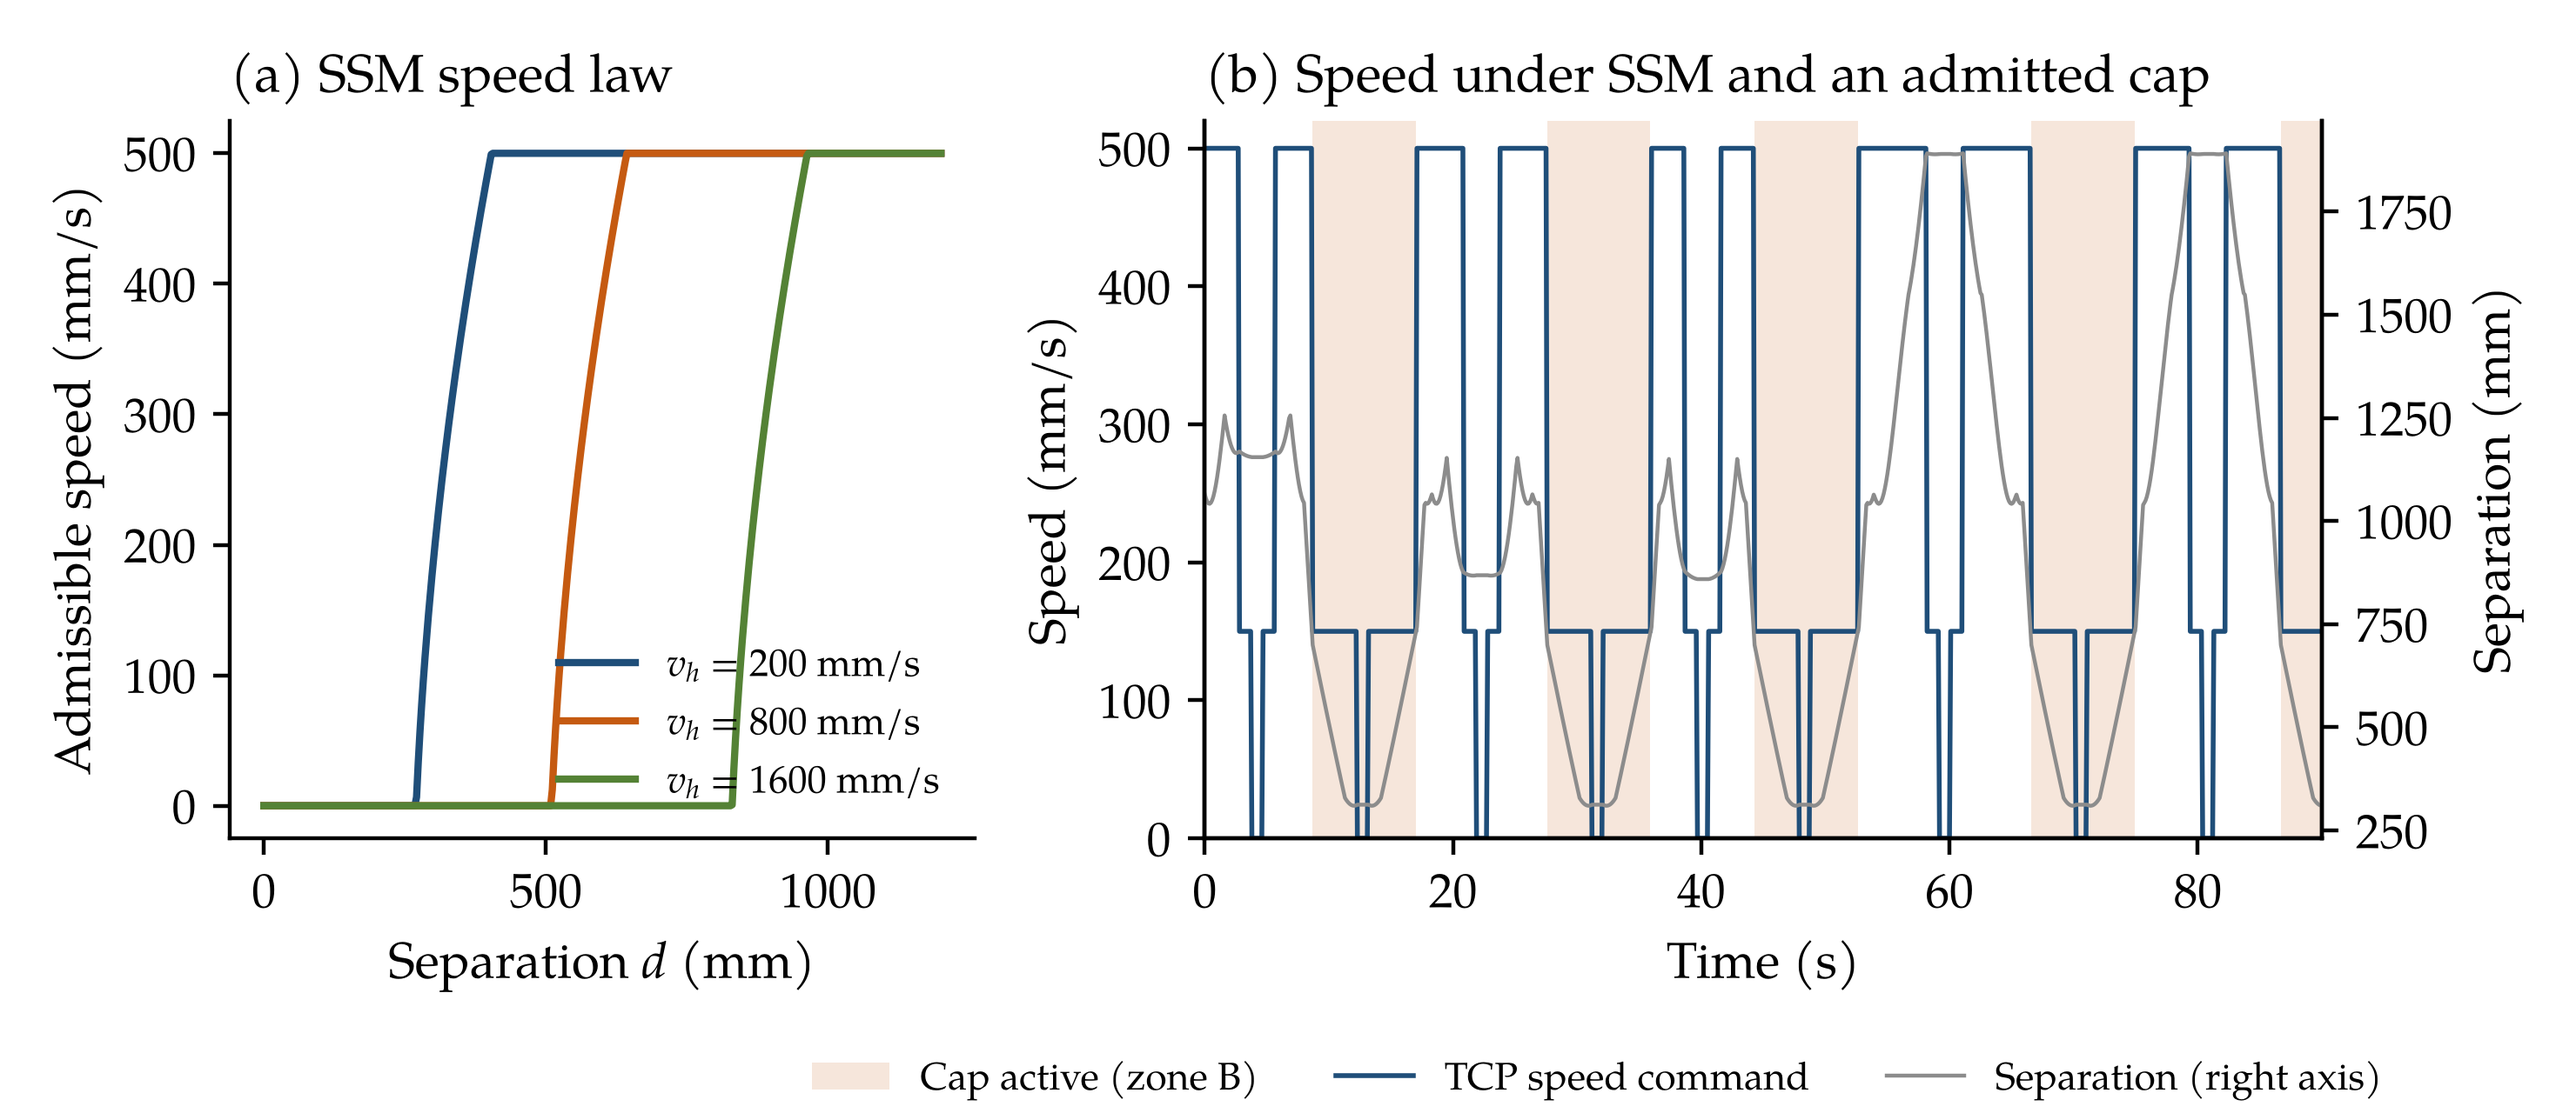
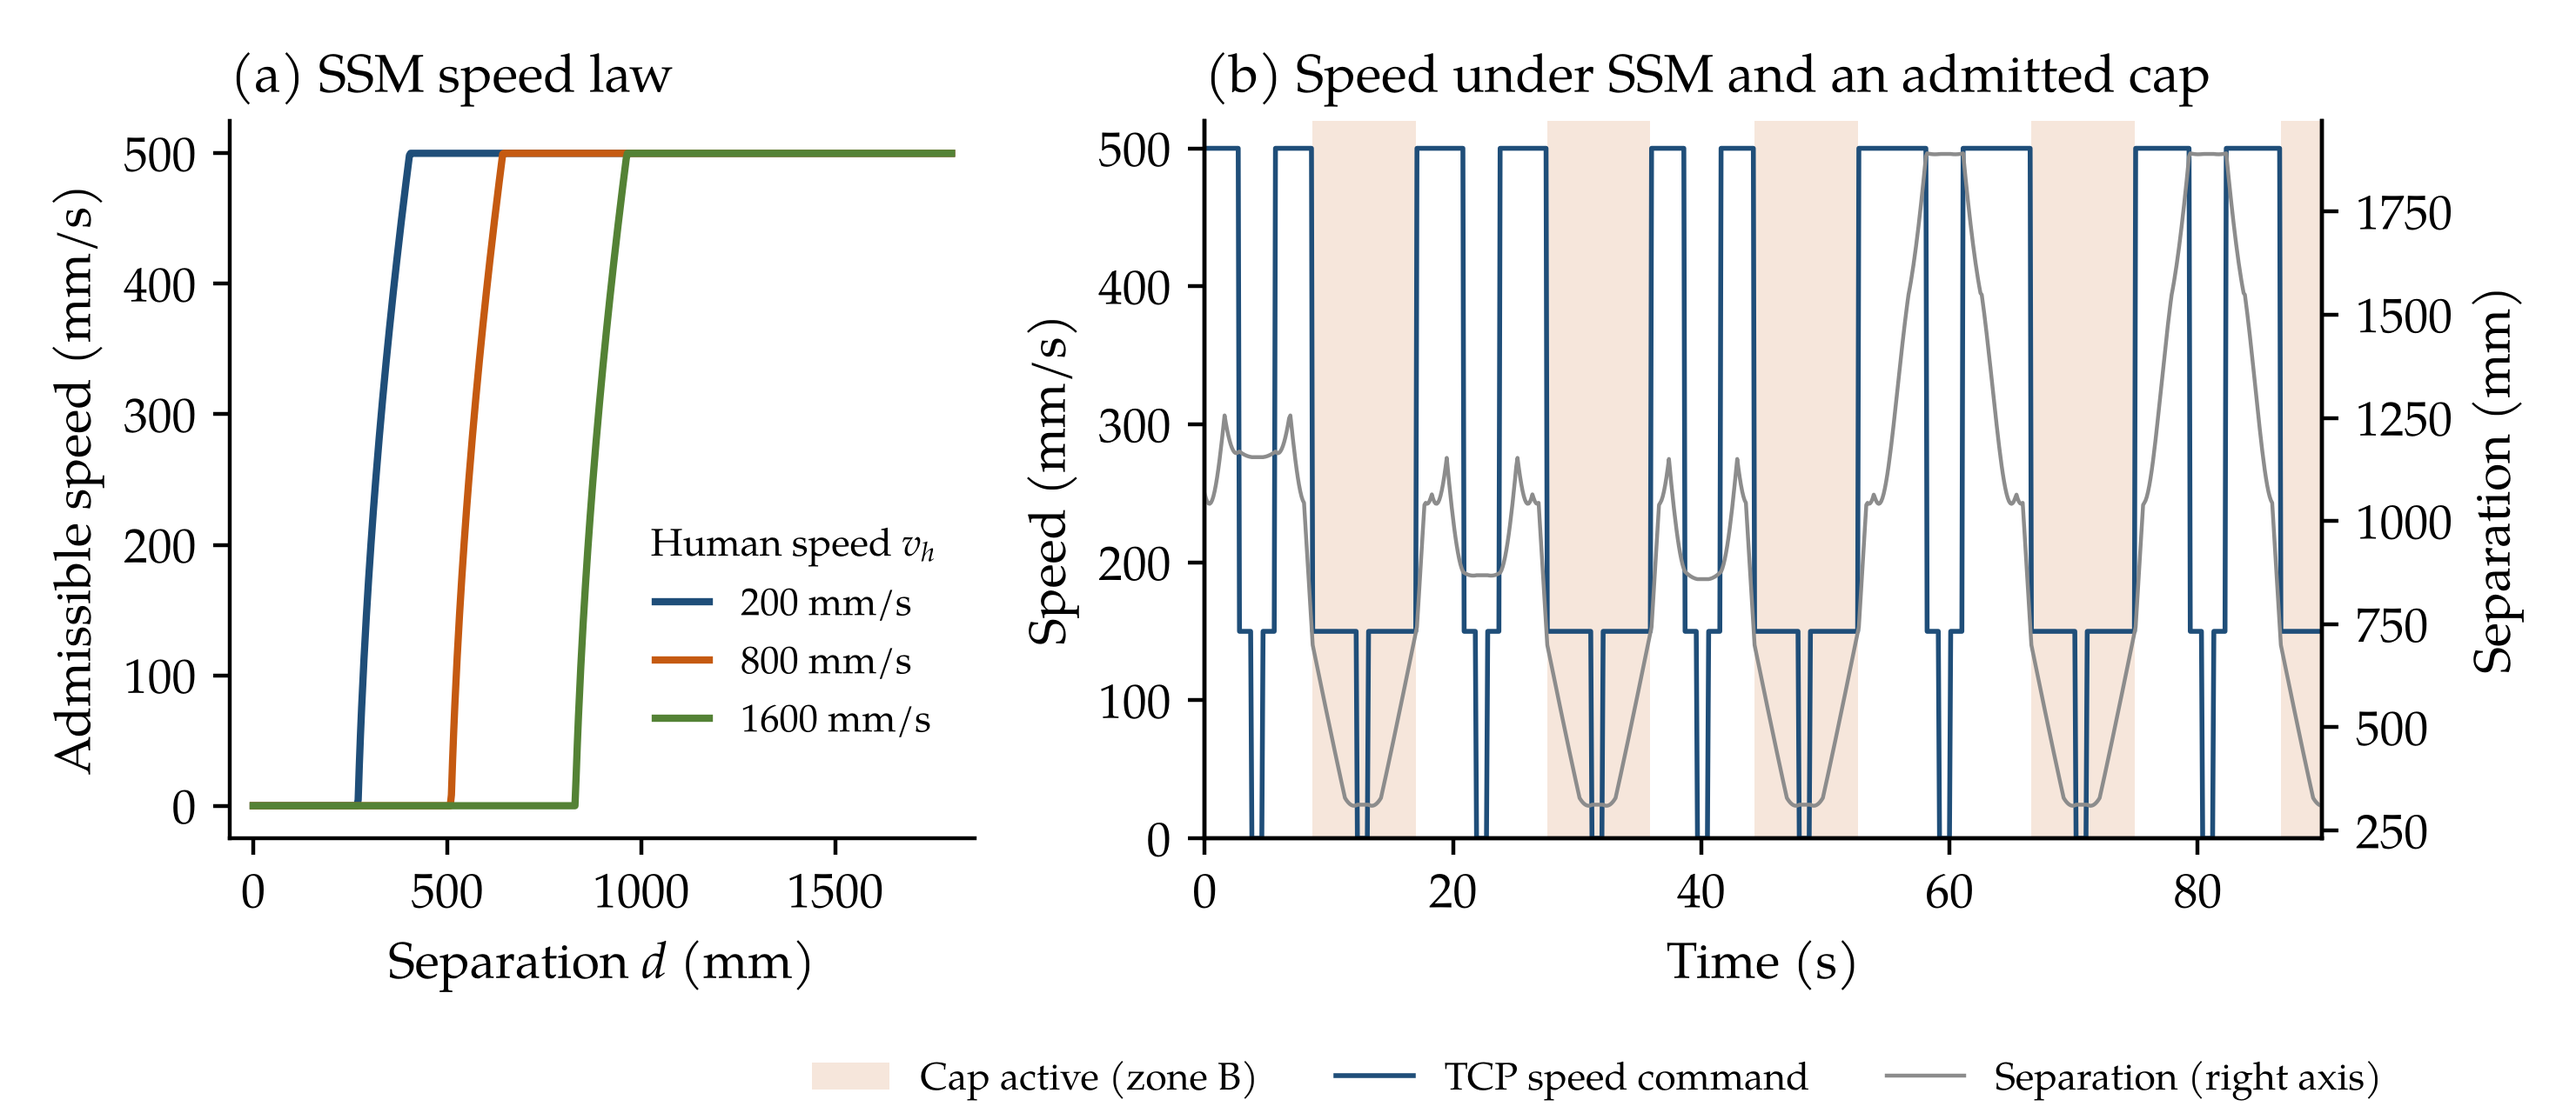
Figure 4: move panel (a) legend clear of the curves (MDPI proof)

diff --git a/code/figures_systems_r1.py b/code/figures_systems_r1.py
@@ -156,10 +156,12 @@ if "4" in which:
     from cell_ext import CellJ
     from constraints import Constraint as _C
     fig, (a, b) = plt.subplots(1, 2, figsize=(7.4, 3.2), gridspec_kw=dict(width_ratios=[1, 1.5]))
-    d = np.linspace(0, 1200, 400)
+    d = np.linspace(0, 1800, 600)
     for vh, c in ((200, C1), (800, C2), (1600, C3)):
-        a.plot(d, [min(500, cell_sim.ssm_speed(x, vh)) for x in d], color=c, lw=1.5, label=f"$v_h$ = {vh} mm/s")
-    a.set_xlabel("Separation $d$ (mm)"); a.set_ylabel("Admissible speed (mm/s)"); a.legend(frameon=False, loc="lower right", fontsize=8)
+        a.plot(d, [min(500, cell_sim.ssm_speed(x, vh)) for x in d], color=c, lw=1.5, label=f"{vh} mm/s")
+    a.set_xlim(-60, 1860); a.set_xticks([0, 500, 1000, 1500])
+    a.set_xlabel("Separation $d$ (mm)"); a.set_ylabel("Admissible speed (mm/s)")
+    a.legend(frameon=False, loc="lower right", fontsize=8, title="Human speed $v_h$", title_fontsize=8, handlelength=1.4, borderaxespad=0.6, bbox_to_anchor=(1.0, 0.08))
     _c = CellJ([_C("speed_cap", "Op_B", zone="kit_B", v_max=150)], seed=3, horizon=600, oracle=False); _c.log_every = 1; _c.run()
     t = np.array(_c.log["t"]); dd = np.array(_c.log["d"]); v = np.array(_c.log["v"]); vc = np.array(_c.log["vcap"])
     on = np.where(vc < 499)[0]; t0 = max(0.0, t[on[0]] - 25) if len(on) else 100.0
